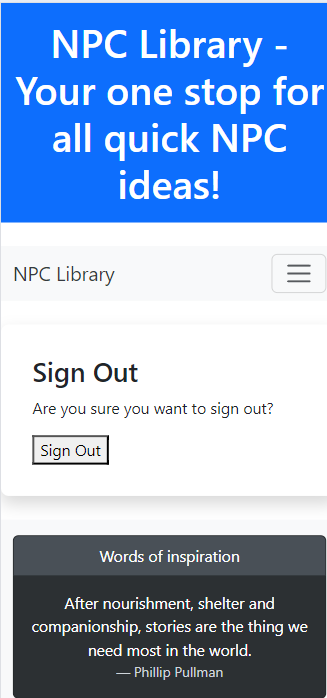
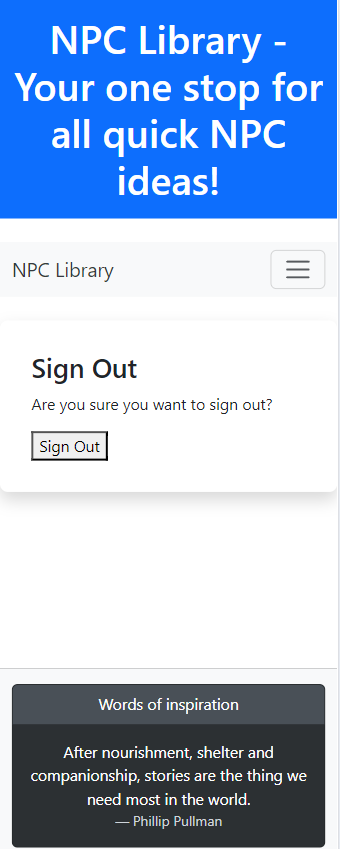
Footer is giving me trouble.

diff --git a/NPCList/templates/NPCList/show_npc.html b/NPCList/templates/NPCList/show_npc.html
@@ -7,6 +7,9 @@
 </header>
 <p>Enjoy!</p>
 <a href="{% url 'create_npc' %}" class="btn btn-primary mb-4">Create an NPC</a> <!-- Use 'create_npc' as defined in urls.py -->
+<form action="{% url 'delete_npc' entry.slug %}" method="post">{% csrf_token %}<button type="submit">Delete</button></form>
+<br>
+<a href="{% url 'edit_npc' entry.slug %}" class="button">Edit</a>
 <div class="container">
     <div class="row">
         <br>
@@ -23,9 +26,41 @@
 </div>
 <br>
 
-<form action="{% url 'delete_npc' entry.slug %}" method="post">{% csrf_token %}<button type="submit">Delete</button></form>
-<br>
-<a href="{% url 'edit_npc' entry.slug %}" class="button">Edit</a>
+
+
+
+
+
+
+
+
+
+
+
+
+
+
+
+
+
+
+
+
+
+
+
+
+
+
+
+
+
+
+
+
+
+
+
 
 {% endblock %}
 

diff --git a/templates/base.html b/templates/base.html
@@ -62,7 +62,7 @@
     </nav>
 
 
-    <main class="container mb-4">
+    <main class="container mb-4 flex-grow-1">
         {% block content %}
         <!-- Content Goes here -->
         {% endblock content %}
